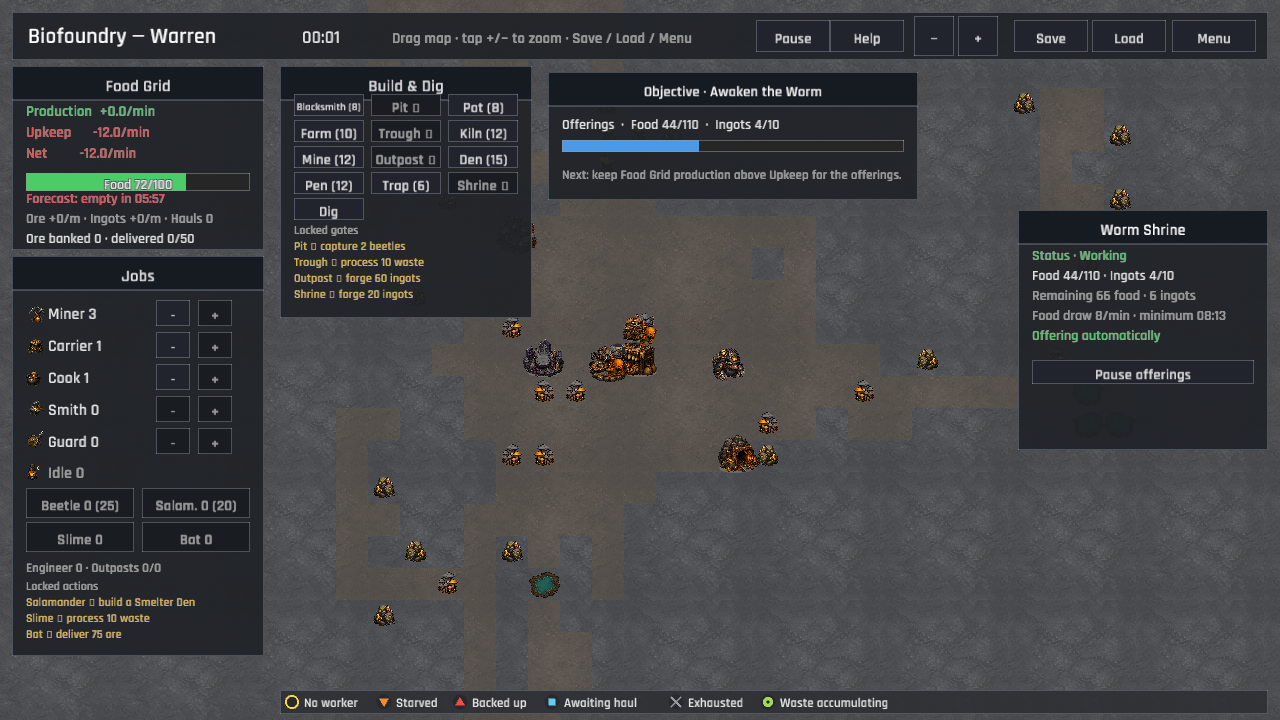
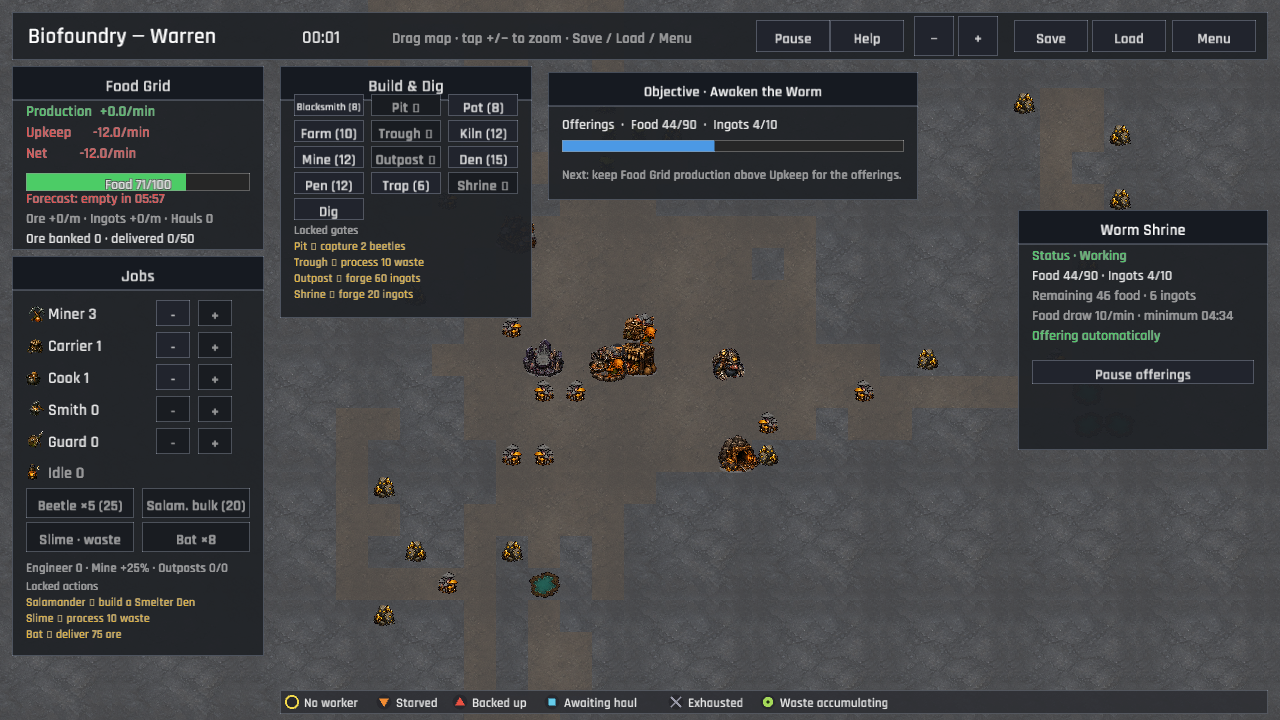
The shrine keeps the final hunger moving (P4 offering cadence)
Shorten the fixed-seed shrine handoff by raising the offering pace and aligning the ten food offerings with the ten-ingot awakening goal. Add balance validation and tighten the campaign pacing guardrail; refresh the shrine capture.

diff --git a/src/simulation/tests/campaign.rs b/src/simulation/tests/campaign.rs
@@ -7,9 +7,9 @@ use super::*;
 /// victory → the Blacksmith forges the factory goal → the Colossal Worm.
 /// The "one sitting" length probe, and the contract for the arc (plan
 /// §Phase 11): famine ~5 min, secure 12–18 min, factory 20–28 min, shrine
-/// before 35 min, and worm within the 30–60 min sitting envelope. The exact
-/// values may move with balance tuning, but each beat needs a guardrail so a
-/// new sink cannot create a silent wait.
+/// before 35 min, the shrine-to-worm handoff under 12 min, and worm within the
+/// 30–60 min sitting envelope. The exact values may move with balance tuning,
+/// but each beat needs a guardrail so a new sink cannot create a silent wait.
 ///
 /// A competent campaign leans on the automation loop: beetle haulers for
 /// capacity, a Blacksmith hammering ore into ingots, expansion (a second
@@ -168,8 +168,8 @@ fn sim_to_factory_complete_on_fixed_seed() {
         "Shrine handoff took {factory_to_shrine:.1} min after factory completion"
     );
     assert!(
-        shrine_to_worm <= 25.0,
-        "worm awakening took {shrine_to_worm:.1} min after the shrine was raised"
+        shrine_to_worm <= 12.0,
+        "worm awakening took {shrine_to_worm:.1} min after the shrine was raised; the final offering handoff should keep moving"
     );
     assert!(
         (30.0..=60.0).contains(&minutes),

diff --git a/src/data/tests.rs b/src/data/tests.rs
@@ -72,6 +72,13 @@ fn balance_values_are_playable() {
     assert!(b.win_food_surplus > b.start_food);
     assert!(b.food_warning_sec > 0.0);
     assert!(b.raid_warning_sec > 0.0 && b.raid_warning_sec < b.raid_first_sec);
+    assert!(b.worm_food_per_min > 0.0);
+    assert!(b.worm_food_per_offering > 0.0);
+    assert!(b.worm_awaken_ingots > 0);
+    assert!(
+        b.worm_awaken_at >= b.worm_food_per_offering * b.worm_awaken_ingots as f32,
+        "the food goal must fund every required ingot offering"
+    );
     // Cooking must multiply calories, or the loop can never go positive.
     assert!(b.cook_batch_food / b.cook_batch_mushrooms as f32 > 1.0);
 }
